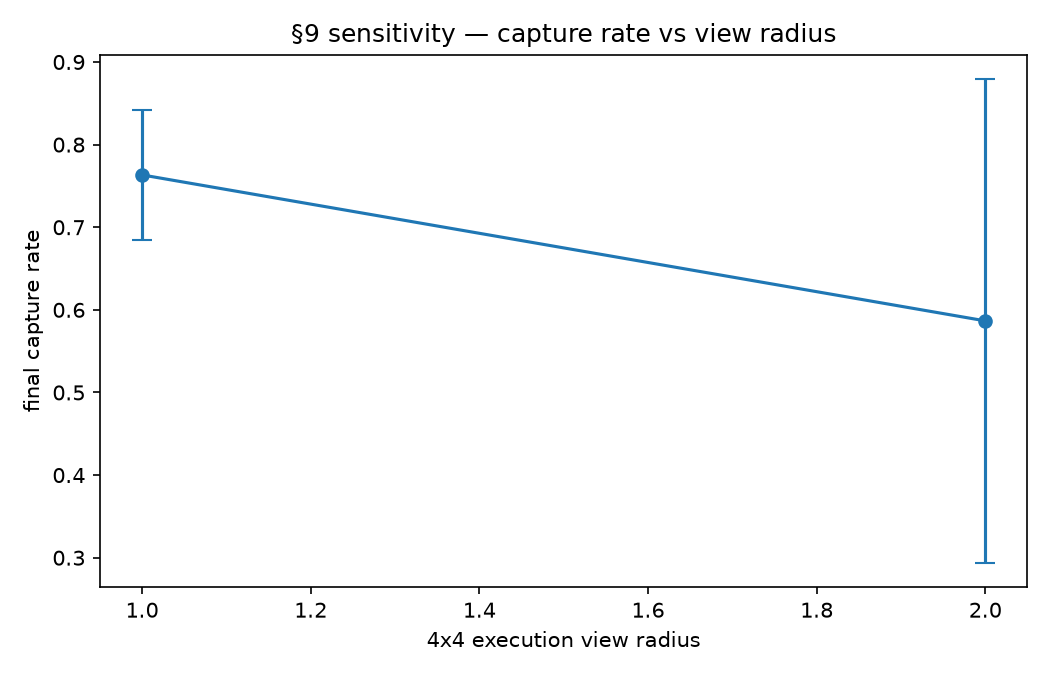
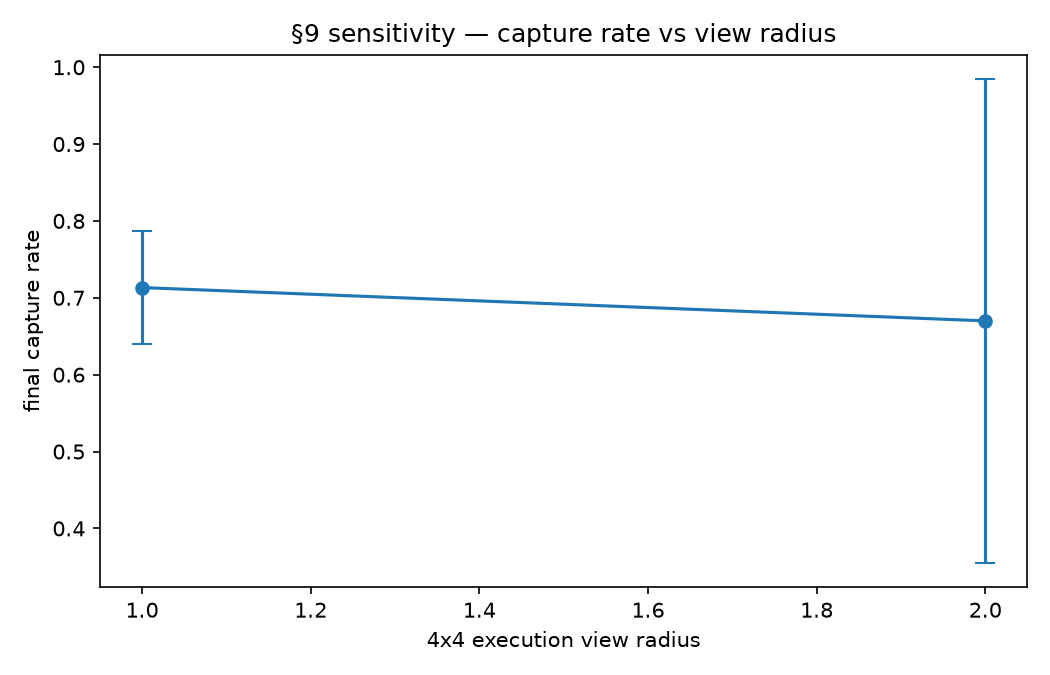
feat(audit): post-warmup §9 sensitivity sweep + ANALYSIS update (figures now fully drift-free)
Re-ran the §9 single-parameter sweep (4×4 view radius 1 vs 2, QMIX, 3 seeds) with the replay
warmup honored — completes the post-warmup figure regeneration (all results now consistent
with the fixed trainer, R8 drift-free):
  radius 1 (partial): 0.713 ± 0.073    radius 2 (full-ish): 0.670 ± 0.315
Same honest finding, sharper: the means are close but radius 2's variance is ~4× larger —
more observability is NOT free, it trades a marginal mean for markedly worse stability (the
wider window is mostly OOB padding + enlarges the encoder input). docs/ANALYSIS.md §9 updated.

diff --git a/docs/ANALYSIS.md b/docs/ANALYSIS.md
@@ -89,24 +89,25 @@ enough to demand a near-Bayes model, loose enough to remain attainable. A single
 ## §9 Sensitivity analysis — `env.view_radius_by_grid[4]` ∈ {1, 2}
 
 A controlled SINGLE-parameter sweep: vary ONLY the 4×4 execution view radius (1 → 2)
-with everything else pinned (algorithm = QMIX, nets / replay / γ / target cadence / 3
-seeds identical). This is the §9 sensitivity analysis — distinct from the IQL/VDN/QMIX
-ablation (which swaps the *algorithm*). `scripts/sensitivity_sweep.py` →
-`results/runs/sensitivity_view_radius.jsonl` → `results/figures/sensitivity_view_radius.png`.
+with everything else pinned (algorithm = QMIX, nets / replay / γ / target cadence / the
+256-episode warmup / 3 seeds identical). This is the §9 sensitivity analysis — distinct
+from the IQL/VDN/QMIX ablation (which swaps the *algorithm*). `scripts/sensitivity_sweep.py`
+→ `results/runs/sensitivity_view_radius.jsonl` → `results/figures/sensitivity_view_radius.png`.
 
 | 4×4 view radius | final capture (mean ± SE, 3 seeds) |
 |---|---|
-| 1 (3×3 window — partial) | **0.763 ± 0.078** |
-| 2 (5×5 window — covers the 4×4 board) | 0.587 ± 0.293 |
+| 1 (3×3 window — partial) | **0.713 ± 0.073** |
+| 2 (5×5 window — covers the 4×4 board) | 0.670 ± 0.315 |
 
 **Finding (honest, possibly counterintuitive).** Capture is genuinely *sensitive* to the
-view radius — but **more observability did NOT help** at the 50-round budget: radius 2's
-mean is lower and its variance is ~4× larger (±0.29). The wider window is mostly
-out-of-bounds padding on a 4×4 board and enlarges the encoder's effective input, so it is
-harder to learn *stably* within budget (the high SE = some seeds converge, some stall) —
-the same monotonic-mixer instability story as F5, now driven by observation size rather
-than mixer richness. With only 3 seeds this is a directional result, not a tight estimate;
-the takeaway is that the model is view-radius-sensitive and that "see more" is not free.
+view radius — but **more observability did NOT clearly help** at the 50-round budget: the
+means are close (0.71 vs 0.67) yet radius 2's variance is **~4× larger** (±0.32 vs ±0.07).
+The wider window is mostly out-of-bounds padding on a 4×4 board and enlarges the encoder's
+effective input, so it is harder to learn *stably* within budget (the high SE = some seeds
+converge, some stall) — the same monotonic-mixer instability story as F5, now driven by
+observation size rather than mixer richness. With only 3 seeds this is a directional
+result, not a tight estimate; the takeaway is that the model is view-radius-sensitive and
+that "see more" is **not free** — it trades a marginal mean for markedly worse stability.
 
 > Reproduce: `uv run python scripts/sensitivity_sweep.py` (4×4 used because 5×5 training
 > is too slow to sweep); the one-key-only guarantee is asserted by